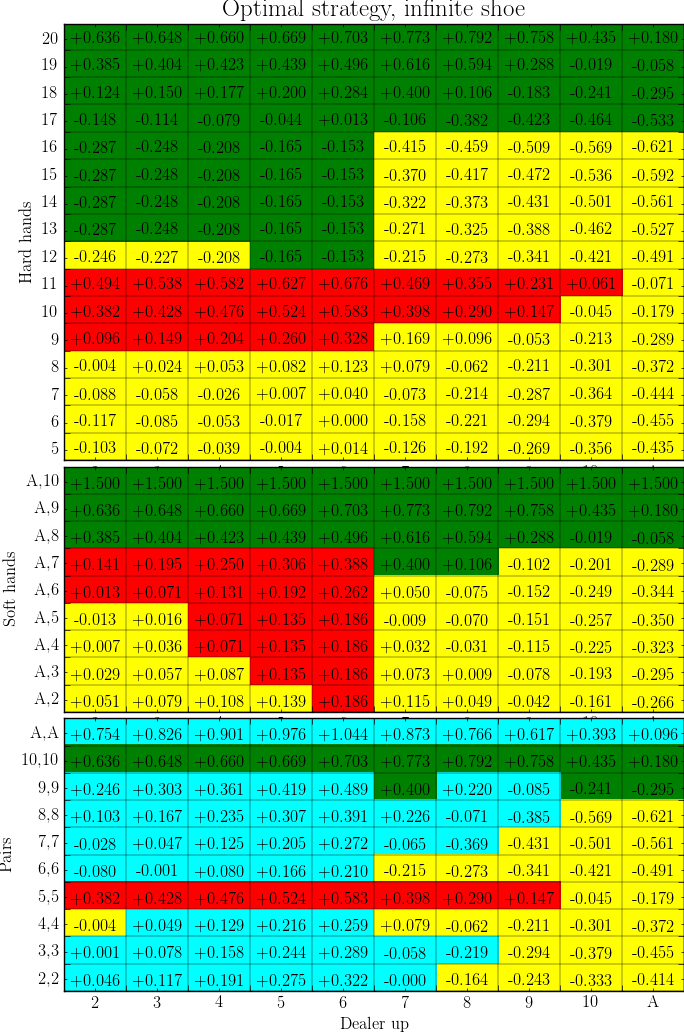
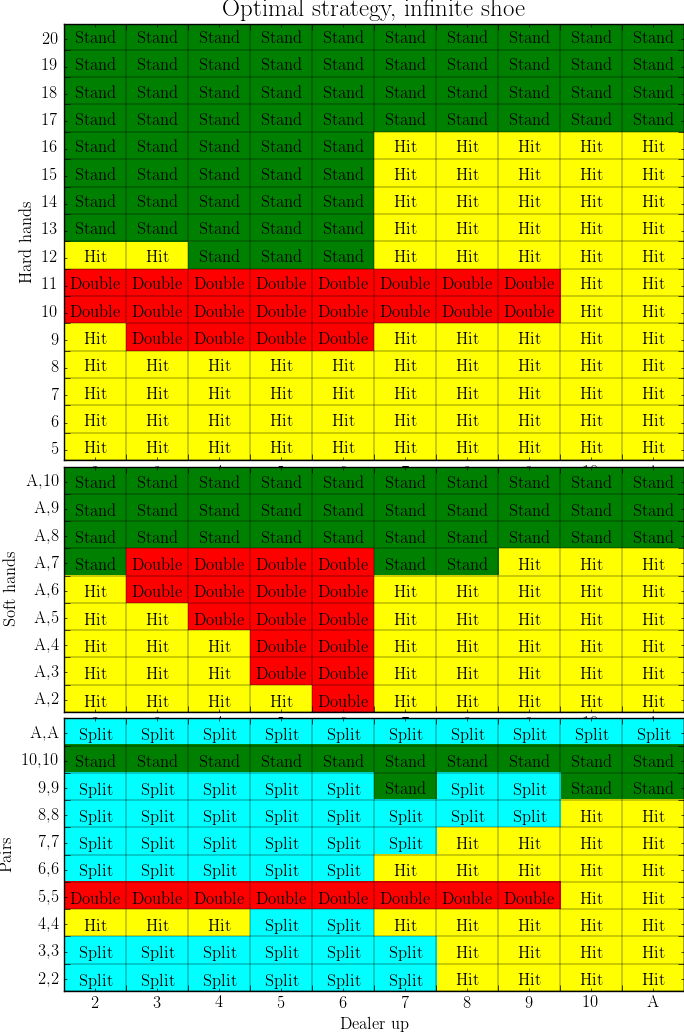
Re-ran table generator for infinite deck with smaller tolerance

Changed region(s): [[0.0921, 0.031, 1.0, 0.9603]]

diff --git a/deal_probabilities.py b/deal_probabilities.py
@@ -40,7 +40,7 @@ for d0 in caco.allCards:
 # time it
 tstop = time.time()
 print "elapsed time = %f" % (tstop-tstart)
-print 'Total error in deal prob = %.5e' % np.abs(1.0-np.sum(dealprob))
+#print 'Total error in deal prob = %.5e' % np.abs(1.0-np.sum(dealprob))
 fig, ax = caco.plotChart(dealprob, title='Deal probability, infinite shoe', textarr=dealprob,
         textfmt=(lambda x, a: '%.1e'%x), cmap=plt.cm.RdBu_r)
 fig.savefig('img/deal_probabilities.png', bbox_inches = 'tight', pad_inches = 0)
@@ -53,7 +53,17 @@ fig, ax = caco.plotChart(weightedexp,
         title='Expected win/loss weighted by deal prob. (total = %+.1e), infinite shoe' %
         np.sum(weightedexp), 
         textarr=weightedexp, textfmt=(lambda x, a: '%.1e'%x), cmap=plt.cm.RdYlGn, vrange=vrange)
+fig.savefig('img/deal_weighted_hand_expectations.png', bbox_inches = 'tight', pad_inches = 0)
+
+# also save the unweighted exp 
+vrange = (min(-np.abs(np.min(best_exp)), -np.abs(np.max(best_exp))), 
+        max(np.abs(np.min(best_exp)),np.abs(np.max(best_exp))))
+fig, ax = caco.plotChart(best_exp, 
+        title='Expected win/loss given perfect play, infinite shoe', 
+        textarr=best_exp, textfmt=(lambda x, a: '%.1e'%x), cmap=plt.cm.RdYlGn, vrange=vrange)
 fig.savefig('img/hand_expectations.png', bbox_inches = 'tight', pad_inches = 0)
+
+
 
 
 

diff --git a/basic_strategy_infinite_deck.py b/basic_strategy_infinite_deck.py
@@ -124,7 +124,7 @@ print "elapsed time = %f" % (tstop-tstart)
 print 
 
 fig, ax = caco.plotChart(best_action, title='Optimal strategy, infinite shoe', textarr =
-        all_exp, textfmt =(lambda exp, act: '%+.3f'%exp[act]))
+        all_exp, textfmt =(lambda exp, act: '%s'%caco.actionLabels[act]))
 fig.savefig('img/basic_strategy_infinite_deck.png', bbox_inches = 'tight', pad_inches = 0)
 best_action.tofile('tables/basic_strategy_infinite_deck_actions.np')
 all_exp.tofile('tables/basic_strategy_infinite_deck_exp.np')

diff --git a/blackjack.c b/blackjack.c
@@ -6,7 +6,7 @@
 #include <string.h>
 
 // define useful stuff
-#define ERRTOL 1.0e-5
+#define ERRTOL 1.0e-8
 #define STAND 0
 #define HIT 1
 #define DOUBLE 2
